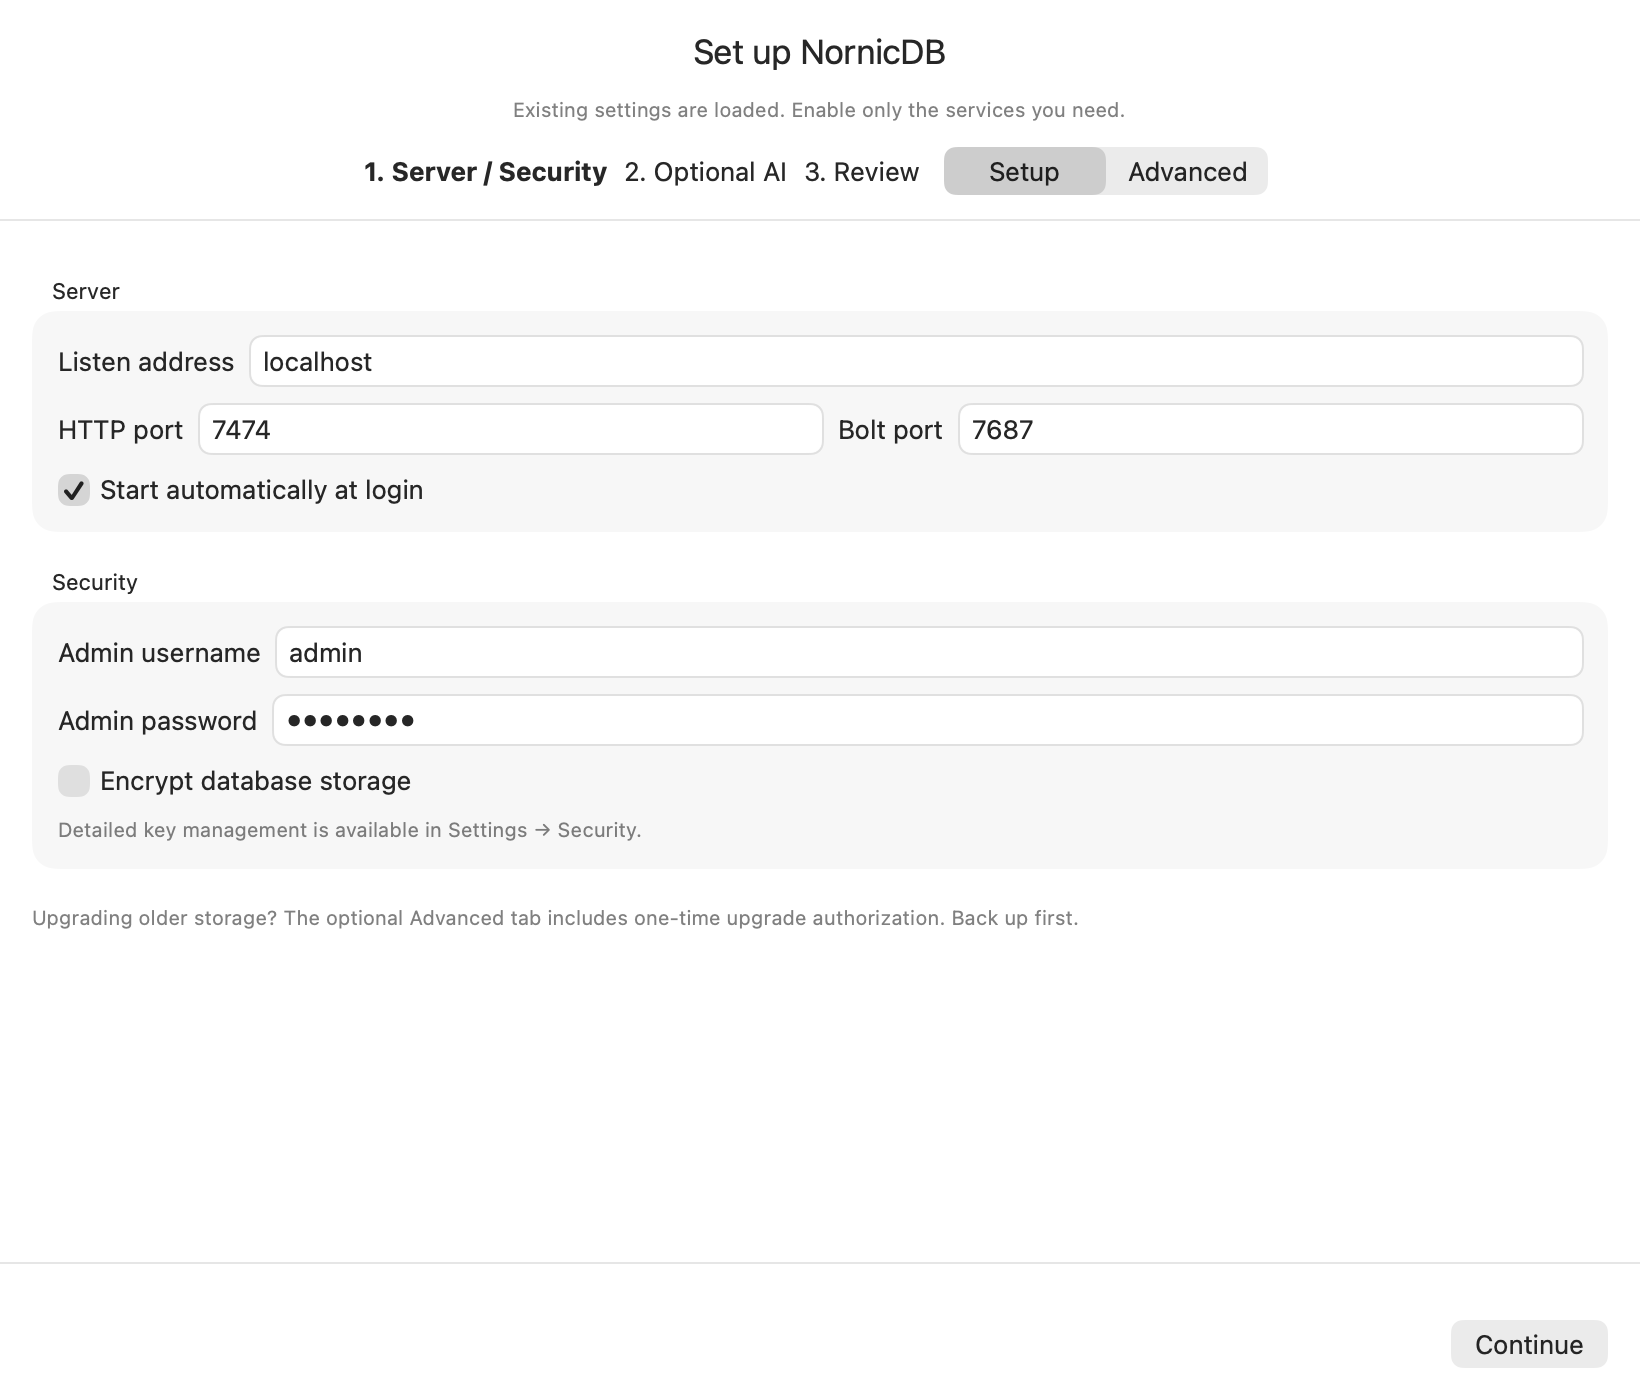
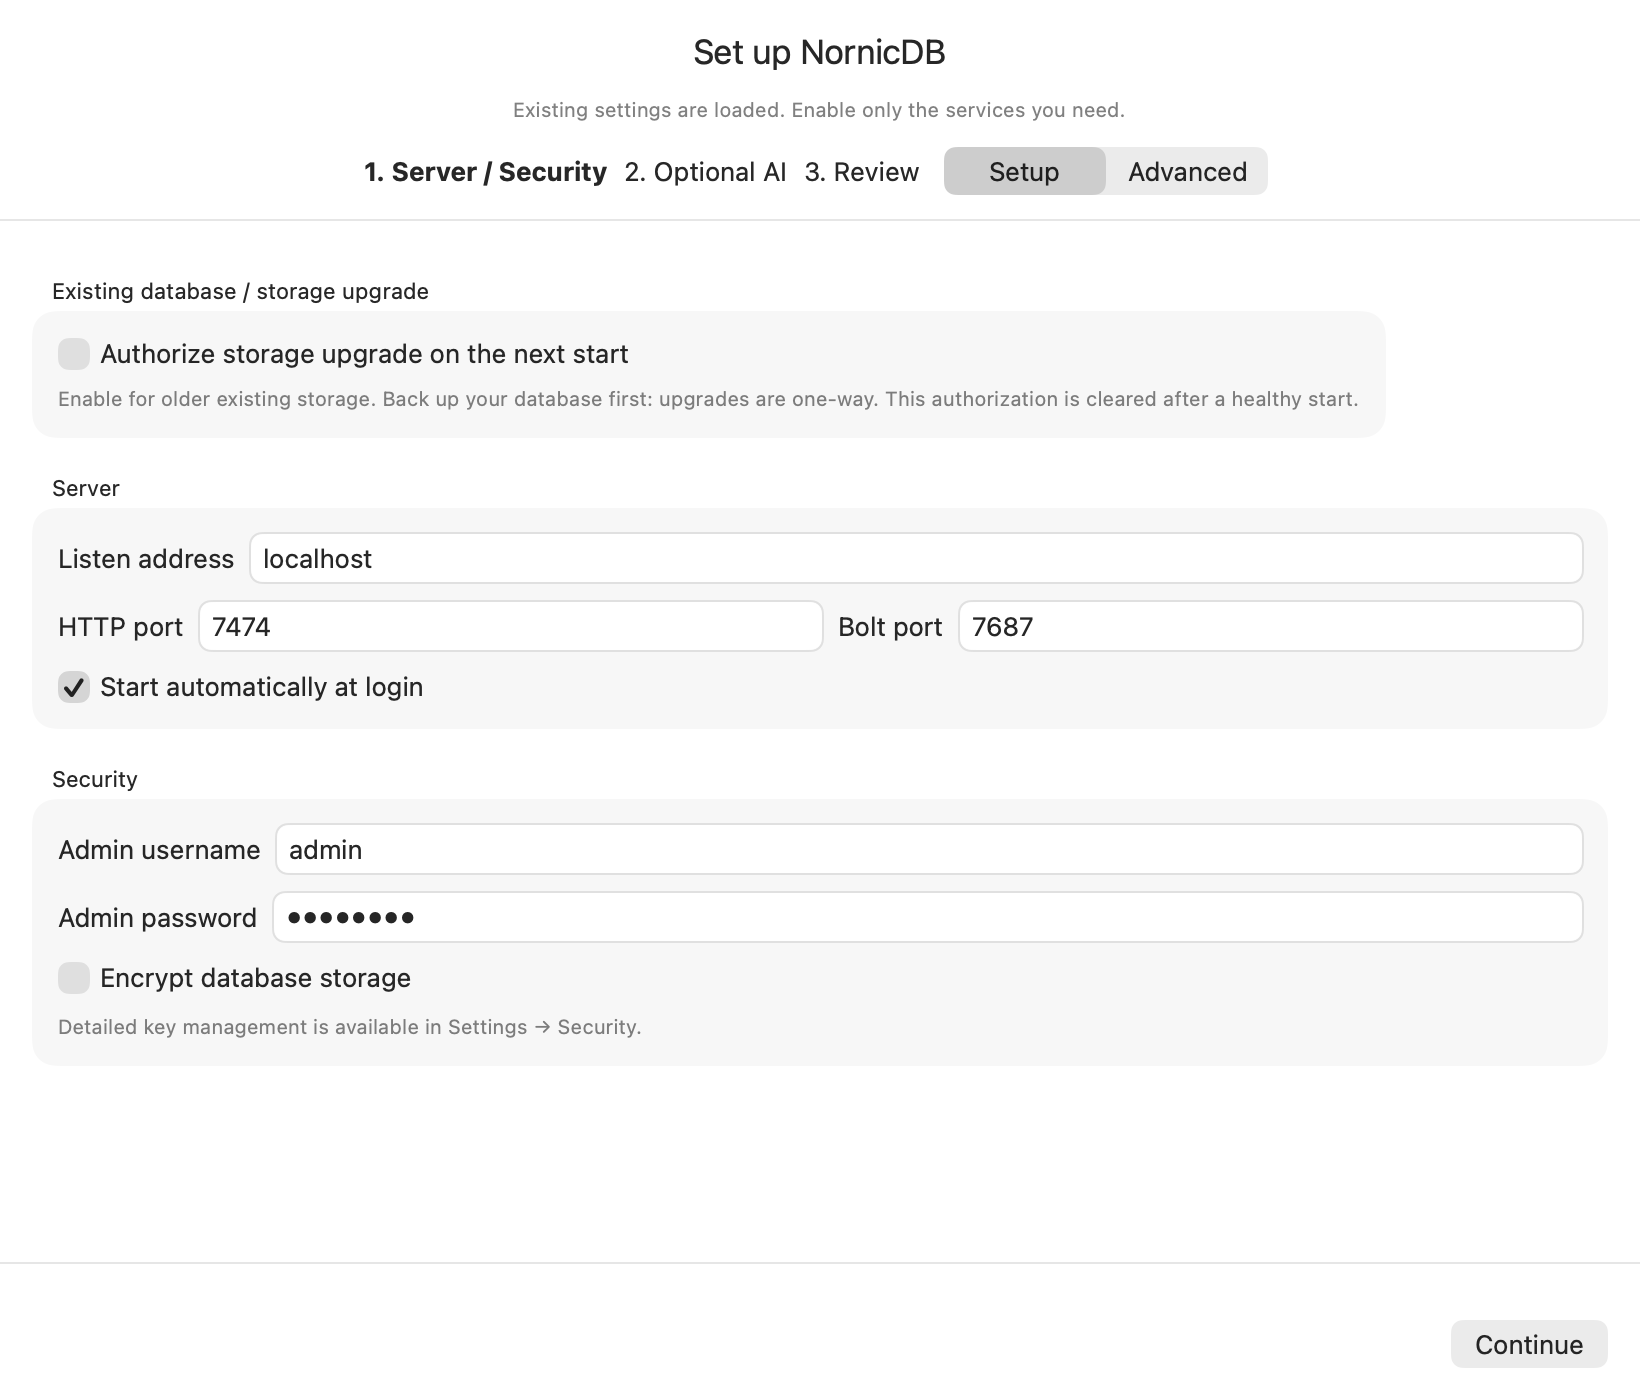
docs(macos): refresh storage upgrade placement previews

diff --git a/docs/development/macos-provider-settings/README.md b/docs/development/macos-provider-settings/README.md
@@ -86,4 +86,4 @@ all arguments after the binary, including the existing position of `serve`.
 
 Maintainer layout correction: the shared one-time storage upgrade control is at
 the front of the first setup page and on Review, never under Advanced. Layout
-captures will be refreshed to match this correction.
+captures above reflect this correction.
